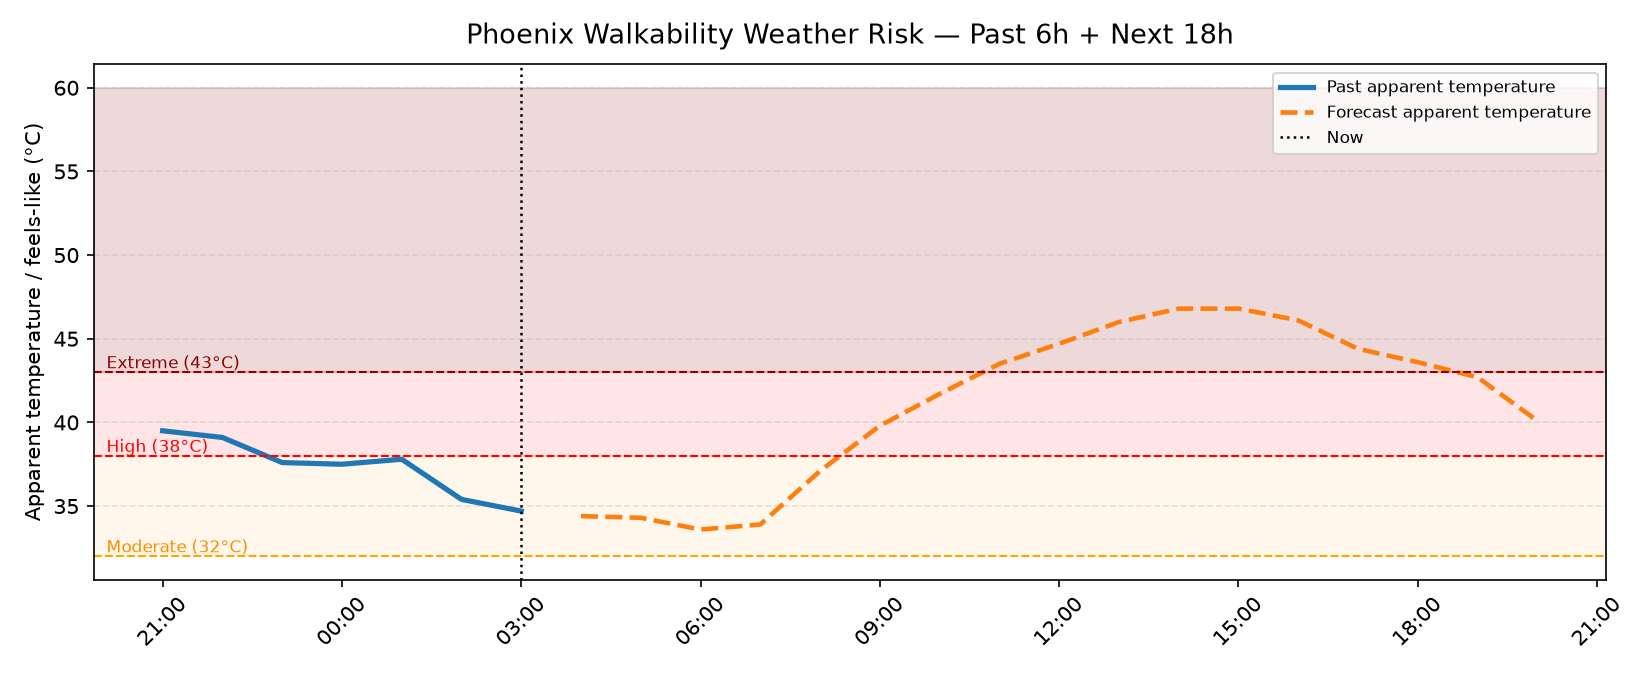
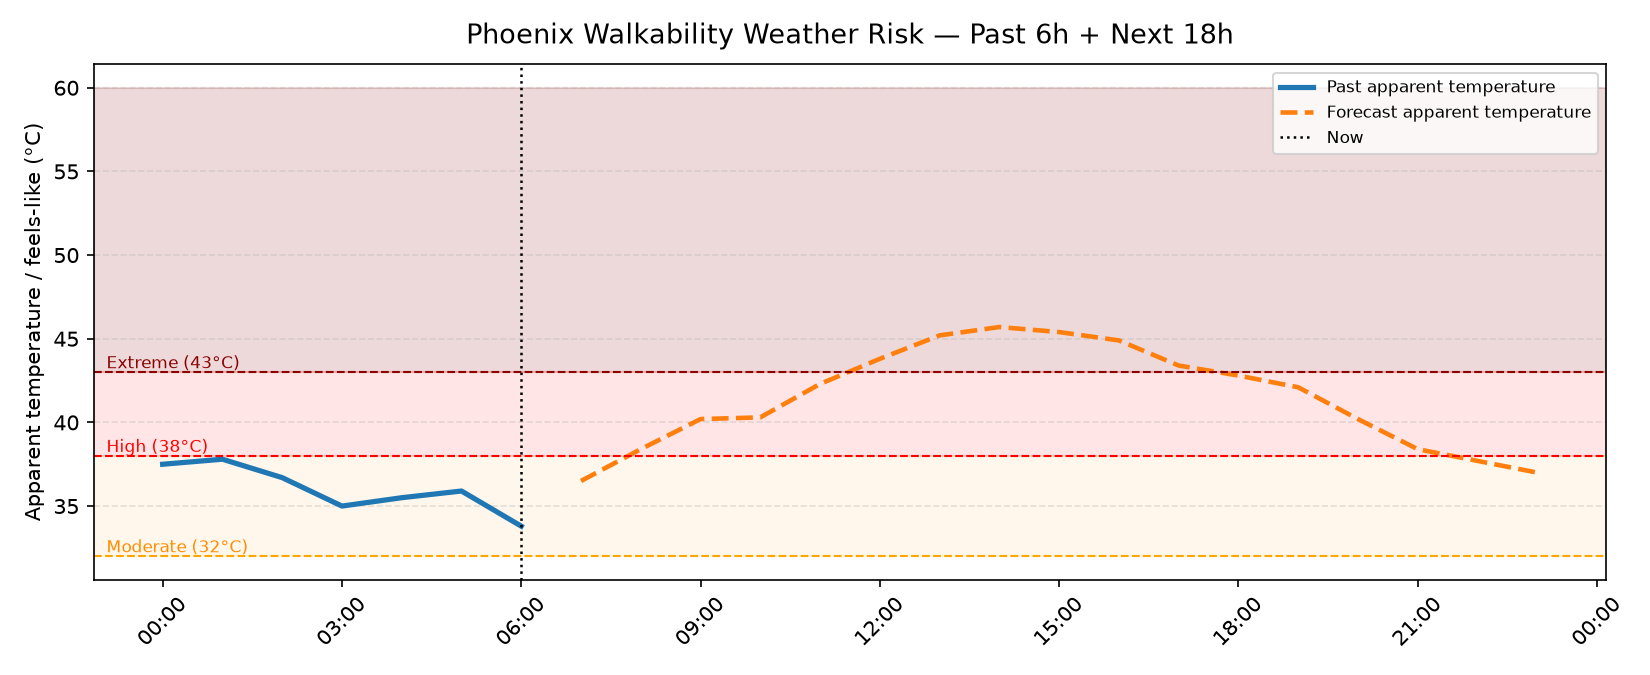
chore: update walkability weather risk [skip ci]

diff --git a/walkability_weather.md b/walkability_weather.md
@@ -1,18 +1,18 @@
 # 🚶 Phoenix Walkability Weather Risk — Live
 
-Updated: **Aug 02, 2026 at 03:00 Phoenix time**
+Updated: **Aug 02, 2026 at 06:30 Phoenix time**
 
 | Metric | Value |
 |---|---:|
-| Air temperature | 36.6°C |
-| Feels-like temperature | 34.7°C |
-| Relative humidity | 23% |
-| Wind speed | 17.7 km/h |
-| UV index | 0.0 |
+| Air temperature | 34.7°C |
+| Feels-like temperature | 34.6°C |
+| Relative humidity | 27% |
+| Wind speed | 7.1 km/h |
+| UV index | 0.35 |
 | Current walking risk | **Moderate** |
 | Uncomfortable walking hours in next 18h | 17 hours |
-| High-risk walking hours in next 18h | 12 hours |
-| Extreme-risk walking hours in next 18h | 8 hours |
+| High-risk walking hours in next 18h | 14 hours |
+| Extreme-risk walking hours in next 18h | 6 hours |
 
 ## Why apparent temperature, not air temperature?
 
